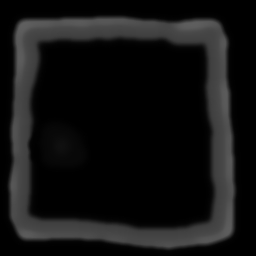
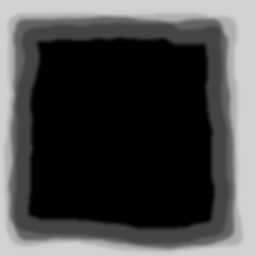
New Map :D

Changed region(s): [[0.0, 0.0, 1.0, 1.0], [0.0938, 0.5312, 0.1562, 0.5938]]

diff --git a/CS_Application_Mermans_Stefan/RemoteHealthCareCS/VRFrom_Gijs/Forms/TunnelCommandForm.cs b/CS_Application_Mermans_Stefan/RemoteHealthCareCS/VRFrom_Gijs/Forms/TunnelCommandForm.cs
@@ -45,20 +45,19 @@ namespace VRFrom_Gijs.Forms
             blocker.WaitOne(5000);
 
             createTerrain();
-            Thread.Sleep(1000);
+            Thread.Sleep(3000);
             paintTerrain();
             blocker.WaitOne(5000);
 
             createForest();
 
             createRoad();
-            createBike();
-            blocker.WaitOne(5000);
-            createRoad();
-            blocker.WaitOne(5000);
-            followRoad();
-            blocker.WaitOne(5000);
-            followBike();
+            //blocker.WaitOne(5000);
+            //createBike();
+            //blocker.WaitOne(5000);
+            //followRoad();
+            //blocker.WaitOne(5000);
+            //followBike();
         }
 
         private void trackBar1_Scroll(object sender, EventArgs e)
@@ -112,10 +111,10 @@ namespace VRFrom_Gijs.Forms
                     nodes = new[]
                    {
 
-                        new {pos = new[] {-40,-0.1,-40} , dir = new[] {5, 0, -5 }},
+                        new {pos = new[] {-20,-0.1,-40} , dir = new[] {5, 0, -5 }},
                         new {pos = new[] {90,-0.1,-40} , dir = new[] {5,0,5}},
-                        new {pos = new[] {90,-0.1,80}, dir = new[] {-5,0,5}},
-                        new {pos = new[] {-40,-0.1,80}, dir = new[] {-5,0,-5}}
+                        new {pos = new[] {75,-0.1,80}, dir = new[] {-5,0,5}},
+                        new {pos = new[] {-40,-0.1,70}, dir = new[] {-5,0,-5}}
 
 
                      }
@@ -142,8 +141,8 @@ namespace VRFrom_Gijs.Forms
                     data = new
                     {
                         id = _connection.TerrainId,
-                        normal = "data/NetworkEngine/textures/terrain/grass_green2y_d.jpg",
-                        diffuse = "data/NetworkEngine/textures/terrain/grass_green2y_d.jpg",
+                        normal = "data/NetworkEngine/textures/terrain/grass_rocky_n.jpg",
+                        diffuse = "data/NetworkEngine/textures/terrain/grass_rocky_d.jpg",
                         minHeight = 0,
                         maxHeight = 30,
                         fadeDist = 1
@@ -191,11 +190,10 @@ namespace VRFrom_Gijs.Forms
         {
             points = forest.getForest();
 
-
             foreach (Point point in points)
             {
                 Thread.Sleep(10);
-                _tree = new Node("tree", _connection.TunnelId, "data/NetworkEngine/models/trees/fantasy/tree2.obj", point.X, 0, point.Y, getRandom());
+                _tree = new Node("tree", _connection.TunnelId, "data/NetworkEngine/models/trees/fantasy/tree1.obj", point.X, 0, point.Y, getRandom());
                 _connection.Nodes.Add(_tree);
 
                 Thread.Sleep(10);

diff --git a/CS_Application_Mermans_Stefan/RemoteHealthCareCS/VRFrom_Gijs/Program/Forest.cs b/CS_Application_Mermans_Stefan/RemoteHealthCareCS/VRFrom_Gijs/Program/Forest.cs
@@ -12,72 +12,8 @@ namespace VRFrom_Gijs.Program
         private List<Point> points = new List<Point>();
 
         public Forest()
-        { 
-            //binnenkant vierkant
-            for(int i = 0; i<4; i++)
-            {
-                for(int j = 0; j<32 ; j++)
-                {
-                    points.Add(new Point(-36 + j*4, -36 + i*4));
-                }
-            }
-
-            for (int i = 0; i < 4; i++)
-            {
-                for (int j = 0; j < 32; j++)
-                {
-                    points.Add(new Point(-36 + j * 4, 62 + i * 4));
-                }
-            }
-
-            for (int i = 0; i < 21; i++)
-            {
-                for (int j = 0; j < 4; j++)
-                {
-                    points.Add(new Point(74 + j * 4, -20 + i * 4));
-                }
-            }
-
-            for (int i = 0; i < 21; i++)
-            {
-                for (int j = 0; j < 4; j++)
-                {
-                    points.Add(new Point(-36 + j * 4, -20 + i * 4));
-                }
-            }
-
-            //buitenkant vierkant
-            for (int i = 0; i < 4; i++)
-            {
-                for (int j = 0; j < 42; j++)
-                {
-                    points.Add(new Point(-56 + j * 4, -58 + i * 4));
-                }
-            }
-
-            for (int i = 0; i < 4; i++)
-            {
-                for (int j = 0; j < 34; j++)
-                {
-                    points.Add(new Point(-41 + j * 4, 86 + i * 4));
-                }
-            }
-
-            for (int i = 0; i < 37; i++)
-            {
-                for (int j = 0; j < 4; j++)
-                {
-                    points.Add(new Point(-57 + j * 4, -46 + i * 4));
-                }
-            }
-
-            for (int i = 0; i < 36; i++)
-            {
-                for (int j = 0; j < 4; j++)
-                {
-                    points.Add(new Point(96 + j * 4, -42 + i * 4));
-                }
-            }
+        {
+            
         }
 
         public List<Point> getForest()

diff --git a/CS_Application_Mermans_Stefan/RemoteHealthCareCS/VRFrom_Gijs/VrObjects/Terrain.cs b/CS_Application_Mermans_Stefan/RemoteHealthCareCS/VRFrom_Gijs/VrObjects/Terrain.cs
@@ -76,7 +76,7 @@ namespace VRFrom_Gijs.VrObjects
     {
         public static double[] GenerateHeightmap()
         {
-            var heightMap = Image.FromFile(@"..\..\res/testmap.jpg");
+            var heightMap = Image.FromFile(@"..\..\res/heightmaptest.jpg");
             var bitHeigthMap = new Bitmap(heightMap, 256, 256);
             var pixels = new double[256 * 256];
             for (int countRow = 0; countRow < 256; countRow++)
@@ -92,7 +92,7 @@ namespace VRFrom_Gijs.VrObjects
 
         private static double colorToInt(Color c)
         {
-            return (double)c.B / 5;
+            return (double)c.B / 10;
         }
     }
 }
